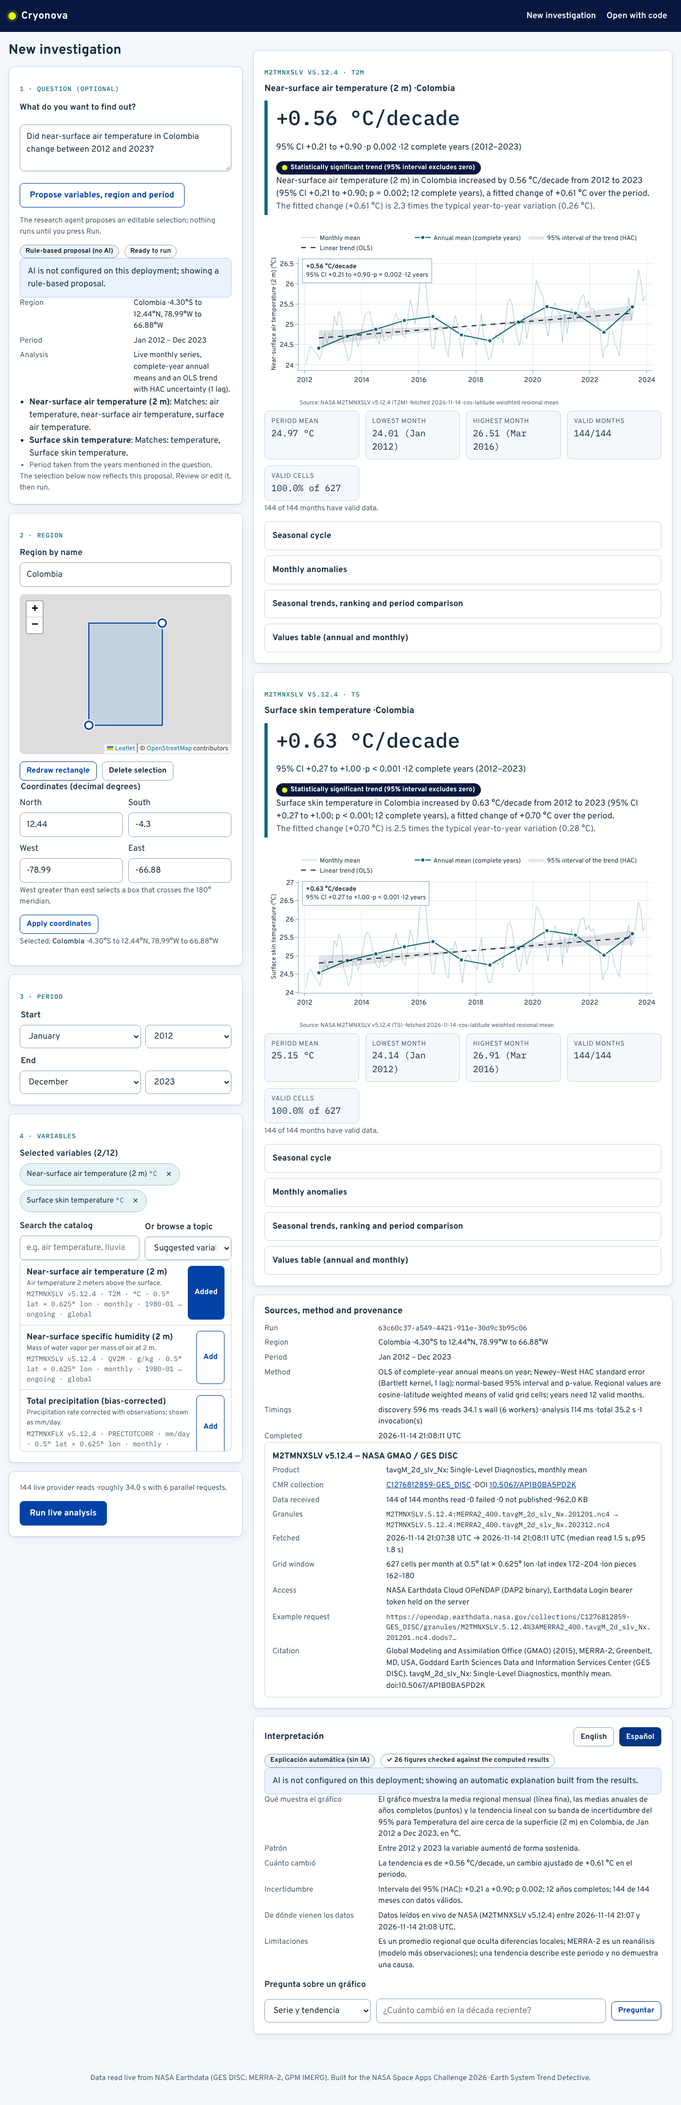
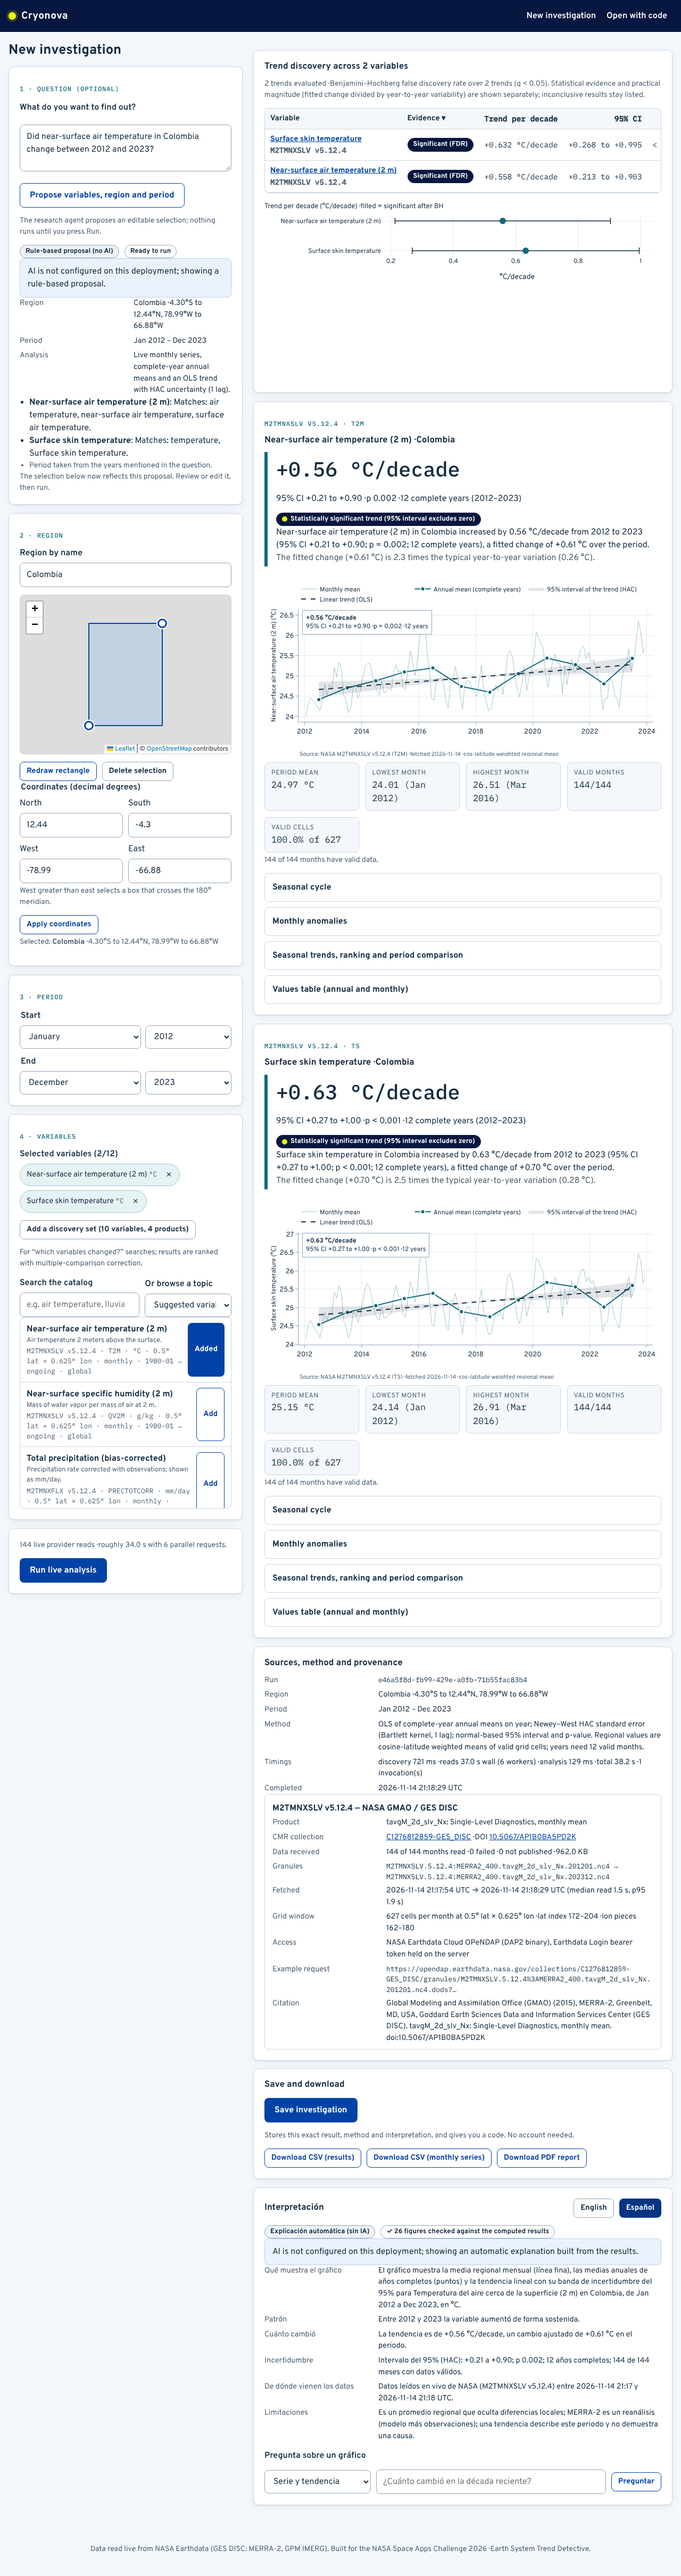
docs: record the production re-verification and current deployment
Discovery interpretation regenerated on production 4250650 after the BH\nfix: 51/51 figures verified and T2M described as nominal. Delivery report\nand rollback runbook point at the current production deployment. Adds the\nguided and reopen-by-code E2E screenshots.

Claude-Session: https://claude.ai/code/session_01MdmBAKE8M2SCmHZVLXGeNV

Changed region(s): [[0.375, 0.0, 1.0, 0.9949], [0.0, 0.0, 0.3438, 0.7462]]

diff --git a/docs/delivery-report.md b/docs/delivery-report.md
@@ -8,8 +8,8 @@ Date: 2026-11-14 (UTC). Everything below was observed during this session; nothi
 |---|---|
 | Repository | https://github.com/MariaAlejandraBoadaRodriguez/cryonova (working branch `claude/fervent-carson-bixpbu`) |
 | Pull requests | [#1](https://github.com/MariaAlejandraBoadaRodriguez/cryonova/pull/1) T+3h (merged `9456ca5`), [#2](https://github.com/MariaAlejandraBoadaRodriguez/cryonova/pull/2) T+6h–T+15h (merged `c6b3a5a`), [#3](https://github.com/MariaAlejandraBoadaRodriguez/cryonova/pull/3) BH-consistency fix found in production verification |
-| Production | https://cryonova-maria-alejandra-boada-rodriguezs-projects.vercel.app → deployment `dpl_4ZHUkRnmMBSuxnxDcKeGUCeKagbD` from `master@c6b3a5a56aa2244185840d213ec0ddf8a1a10fcc` |
-| Previous production (rollback target) | `dpl_ELqFefi37wBsR8jeYoLgouEuPX7a` (`9456ca5`, T+3h) |
+| Production | https://cryonova-maria-alejandra-boada-rodriguezs-projects.vercel.app → deployment `dpl_9gV1rokYQeF6FBRkxnVskTuPCgjn` from `master@425065029577aeea958efb13b888c056ce19504e` (PR #3) |
+| Previous production (rollback targets) | `dpl_4ZHUkRnmMBSuxnxDcKeGUCeKagbD` (`c6b3a5a`, PR #2) and `dpl_ELqFefi37wBsR8jeYoLgouEuPX7a` (`9456ca5`, T+3h) |
 | Database | Neon `neondb` (PostgreSQL 18.7): migrations `0000_initial_schema` + `0001_ai_usage_client_key` (version 2); `cryonova_test` for integration and E2E |
 | CI | GitHub Actions on every push and PR: secret scan, lint, types, unit tests with coverage gate, build, pytest, browser tests — green on both merged heads |
 
@@ -19,7 +19,7 @@ Date: 2026-11-14 (UTC). Everything below was observed during this session; nothi
 |---|---|---|
 | T+3h First investigation | Done, verified in production | Run `d82edcbd…`: 240/240 MERRA-2 months, 58.9 s, +0.334 °C/decade (95% CI +0.044..+0.624, p = 0.024, n = 20) |
 | T+6h AI-guided investigation | Done | Claude planner + explainer; production `/api/health?deep=ai` ok; real explanation of the production run: 62/62 figures verified (EN), 45/45 (ES) |
-| T+9h Trend discovery | Done, verified in production | Run `55db4e8b…`: 4 variables from 3 products, 720/720 live reads in 146 s; BH over 4 trends (T2M nominal, q = 0.096; others inconclusive); AI interpretation 46/46 figures verified |
+| T+9h Trend discovery | Done, verified in production | Run `55db4e8b…`: 4 variables from 3 products, 720/720 live reads in 146 s; BH over 4 trends (T2M nominal, q = 0.096; others inconclusive). Production verification exposed a wording gap ("significant" before correction); fixed in PR #3 and re-verified: 51/51 figures, T2M described as nominal |
 | T+12h Shareable investigation | Done (locally verified end to end; production UI path awaits public access) | E2E: save → code → reopen in a separate browser → series CSV value equals the screen → PDF valid |
 | T+15h Second verified path | Done | GPM IMERG V07 live (24/24 months, 5.7 s; production status `verified_live`); ERA5 and NOAA credentials accepted, connectors pending |
 | T+18h Final polish | Partial | Mobile layout and axe checks pass; backup demo recording not produced |

diff --git a/docs/benchmarks/live-reads.md b/docs/benchmarks/live-reads.md
@@ -37,3 +37,4 @@ positive monthly anomalies: 21 months (2023-04 to 2024-12).
 | 2026-11-14 21:12 | preview `dfa4410` | Same run (ES) | Claude, 6.6 s; **45/45 cited figures verified** |
 | 2026-11-14 21:26 | production `c6b3a5a` | `/api/health?deep=ai` | ok, `claude-sonnet-5-5`, 1.37 s |
 | 2026-11-14 21:29 | production `c6b3a5a` | Explanation of discovery run `55db4e8b…` (EN) | Claude, 6.2 s, 4,533 in / 897 out tokens (~$0.018); 46/46 figures verified. Found a wording gap: T2M was called "significant" although BH rates it nominal; fixed in PR #3 (run-level q-values in badges, PDF and AI facts). |
+| 2026-11-14 22:50 | production `4250650` (PR #3) | Same discovery run, interpretation regenerated after the fix | Claude, 7.0 s, 4,739 in / 940 out tokens (~$0.019); **51/51 figures verified**; T2M now described as "only nominally significant and not significant after Benjamini-Hochberg correction (q = 0.096)" |

diff --git a/docs/runbooks/operations.md b/docs/runbooks/operations.md
@@ -65,7 +65,7 @@ timestamp → point a preview's `DATABASE_URL` at it → `GET /api/health` and o
 ## Rollback
 
 1. Find the previous good production deployment: Vercel dashboard → Deployments (filter Production), or
-   `list_deployments` with `target=production`. Current: `dpl_ELqFefi37wBsR8jeYoLgouEuPX7a` (`9456ca5`, T+3h).
+   `list_deployments` with `target=production`. Current production: `dpl_9gV1rokYQeF6FBRkxnVskTuPCgjn` (`4250650`); previous: `dpl_4ZHUkRnmMBSuxnxDcKeGUCeKagbD` (`c6b3a5a`), then `dpl_ELqFefi37wBsR8jeYoLgouEuPX7a` (`9456ca5`, T+3h).
 2. Promote it: dashboard "Instant Rollback", or Vercel API `POST /v9/projects/{project}/rollback/{deploymentId}`.
 3. Schema: migrations are additive only, so the previous build runs on the newer schema. Never drop or rename
    columns in the same release that stops using them.
